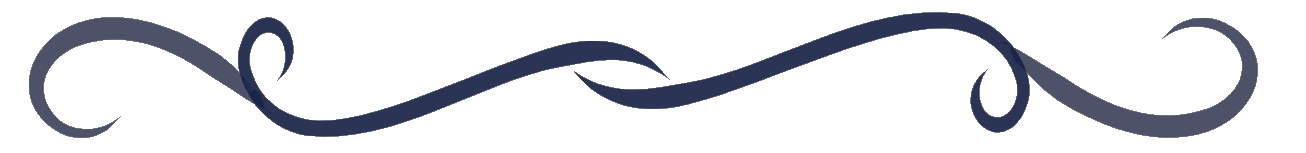
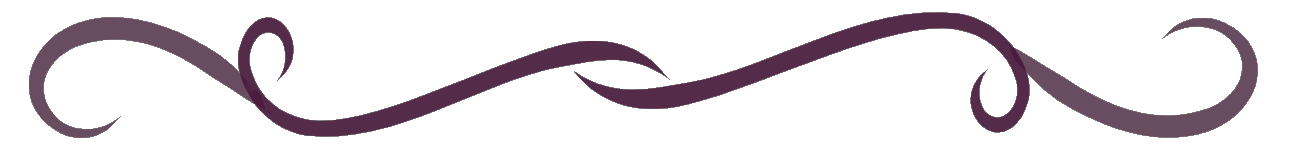
Update colors

Changed region(s): [[0.4288, 0.0784, 0.9801, 0.915], [0.0, 0.1046, 0.5207, 0.8889]]

diff --git a/src/Styles/Header.css b/src/Styles/Header.css
@@ -8,14 +8,14 @@
   display:flex;
   align-items: center;
   justify-content: center;
-  background: #363a4e;
+  background: #fbf9ec;
 }
 
 .title {
   position: relative;
   display: flex;
   justify-content: flex-end;
-  color: #fff;
+  color: #000;
   font-size: 4vw;
 }
 /* Word + SVG styles */
@@ -35,19 +35,20 @@
     user-select: none;
     -webkit-tap-highlight-color: rgba(0,0,0,0);
     grid-area: title;
-    font-size: 11vw;
+    font-size: 17vw;
     font-weight: 400;
-    color: #fff;
+    color: #000;
     font-family: 'Hammersmith One', sans-serif;
 }
 
 .word .char2,
-.word .char9 {
-	color: #f7882f;
+.word .char8 {
+	color: #c98474;
+	/*color: #874c62;*/
 }
 
 .title {
-  color: #fff;
+  color: #000;
   font-family: 'Monda', sans-serif;
 }
 

diff --git a/src/Components/Header.js b/src/Components/Header.js
@@ -9,8 +9,8 @@ class Header extends Component {
     return(
       <div className="header">
       <div className="text">
-      <h2 className="word word--6">Maik Rantetasik</h2>
-      <span className="title">Full Stack Developer</span>
+      <h2 className="word word--6">Zeke Tan</h2>
+      <span className="title">Software Engineer</span>
       </div>
       </div>
     )
@@ -28,7 +28,7 @@ class Header extends Component {
     var element = document.querySelector('.word'),
     element2 = document.querySelector('.title'),
     options = {
-      shapeColors: ['#fff','#6b7a8f', '#f7882f', '#f7c331', '#dcc7aa'],
+      shapeColors: ['#a7d2cb', '#f2d388', '#c98474', '#874c62'],
       totalShapes: 7
     }
 

diff --git a/src/Components/About.js b/src/Components/About.js
@@ -6,12 +6,7 @@ class About extends Component {
     return (
       <div>
       <h2 className="section-title">Hello!</h2>
-      <p>Hi, I'm Maik, a full-stack developer with more than 3 years of experience.
-      I love learning new technologies and building apps! You can check out some of
-      my person projects that I've built in my free time under Projects.</p>
-      <p>I currently work as a full-stack developer at <a href="http://kreasitindo.co.id/" target="_blank" rel="noopener noreferrer">KST</a>, where
-      I manage and plan most of the projects.</p>
-      <p>When I'm not coding, I enjoy playing video games, cooking, drawing and DIY.</p>
+      <p>Hello~</p>
       </div>
     )
   }

diff --git a/public/index.html b/public/index.html
@@ -10,7 +10,7 @@
       /*pass window height (w/o scroll bars) down to react app, note can't use vh becasue that
       includes scroll bars and mobile browser footer, etc so doesn't give viewable area*/
       html, body { height: 100%; }
-      #root { background-color: #F0F0F0; min-height: 100%; }
+      #root { background-color: #fbf9ec; min-height: 100%; }
       /*required for IE/Edge to be compatible with left:50vw & transform:translate(-50%, 0),
       otherwise there is a phantom div on the right side of the screen (from the left:50vw),
       that the window will scroll to. Note the left:50vw and transform is used to center content

diff --git a/src/Styles/Navbar.css b/src/Styles/Navbar.css
@@ -7,7 +7,7 @@
 .nav {
   height: auto;
   width: 100%;
-  background-color: #494e6b;
+  background-color: #a7d2cb;
   position: relative;
   display: flex;
   justify-content: center;
@@ -20,12 +20,12 @@
 }
 
 .brand {
-  background-color: #f7882f;
+  background-color: #c98474;
   text-align: center;
 }
 
 .nav .brand a {
-  color: #fff;
+  color: #000;
   font-family: Hammersmith One;
 }
 
@@ -48,7 +48,7 @@
   display: inline-block;
   padding: 10px 40px;
   text-decoration: none;
-  color: #f7c331;
+  color: #000;
   font-size: 1.6vw;
 }
 

diff --git a/src/Components/Navbar.js b/src/Components/Navbar.js
@@ -48,10 +48,6 @@ class Navbar extends Component {
 
       <input type="checkbox" id="nav-check" checked={this.state.isExpanded} onChange={this.toggleMenu} />
 
-      <div className="nav-piece-center brand">
-        <Link onClick={this.toggleMenu} to="/" >Maik</Link>
-      </div>
-
       <div className="nav-piece nav-left">
         <Link onClick={this.toggleMenu} to="/">About</Link>
         <Link onClick={this.toggleMenu} to="/projects">Projects</Link>

diff --git a/src/Styles/Project.css b/src/Styles/Project.css
@@ -36,12 +36,12 @@
 .project-title {
   margin: 0px;
   font-family: Monda;
-  color: #494949;
+  color: #c98575;
 }
 
 .technologies {
   font-family: Sintony;
-  color: #ce893d;
+  color: #593341;
   border-top: 1px solid #cccccc;
   border-bottom: 1px solid #cccccc;
   padding: 3px 0px;
@@ -71,7 +71,7 @@
   align-items: center;
   border-bottom: 1px solid #dfdfdf;
   font-family: Sintony;
-  color: #ce893d;
+  color: #c98474;
   margin-bottom: 15px;
 }
 

diff --git a/src/App.css b/src/App.css
@@ -11,11 +11,11 @@ h3 {
 
 a {
   font-family: Sintony;
-  color: #ce893d;
+  color: #593341;
 }
 
 strong {
-    color: #ce893d;
+    color: #593341;
     font-weight: bold;
     text-decoration: none;
 }
@@ -24,7 +24,7 @@ strong {
   text-align: center;
   font-family: Hammersmith One;
   font-size: 6vw;
-  color: #494e6b;
+  color: #593341;
   padding: 10px;
   background-image: url(header.png);
   background-position: 50% 110%;
